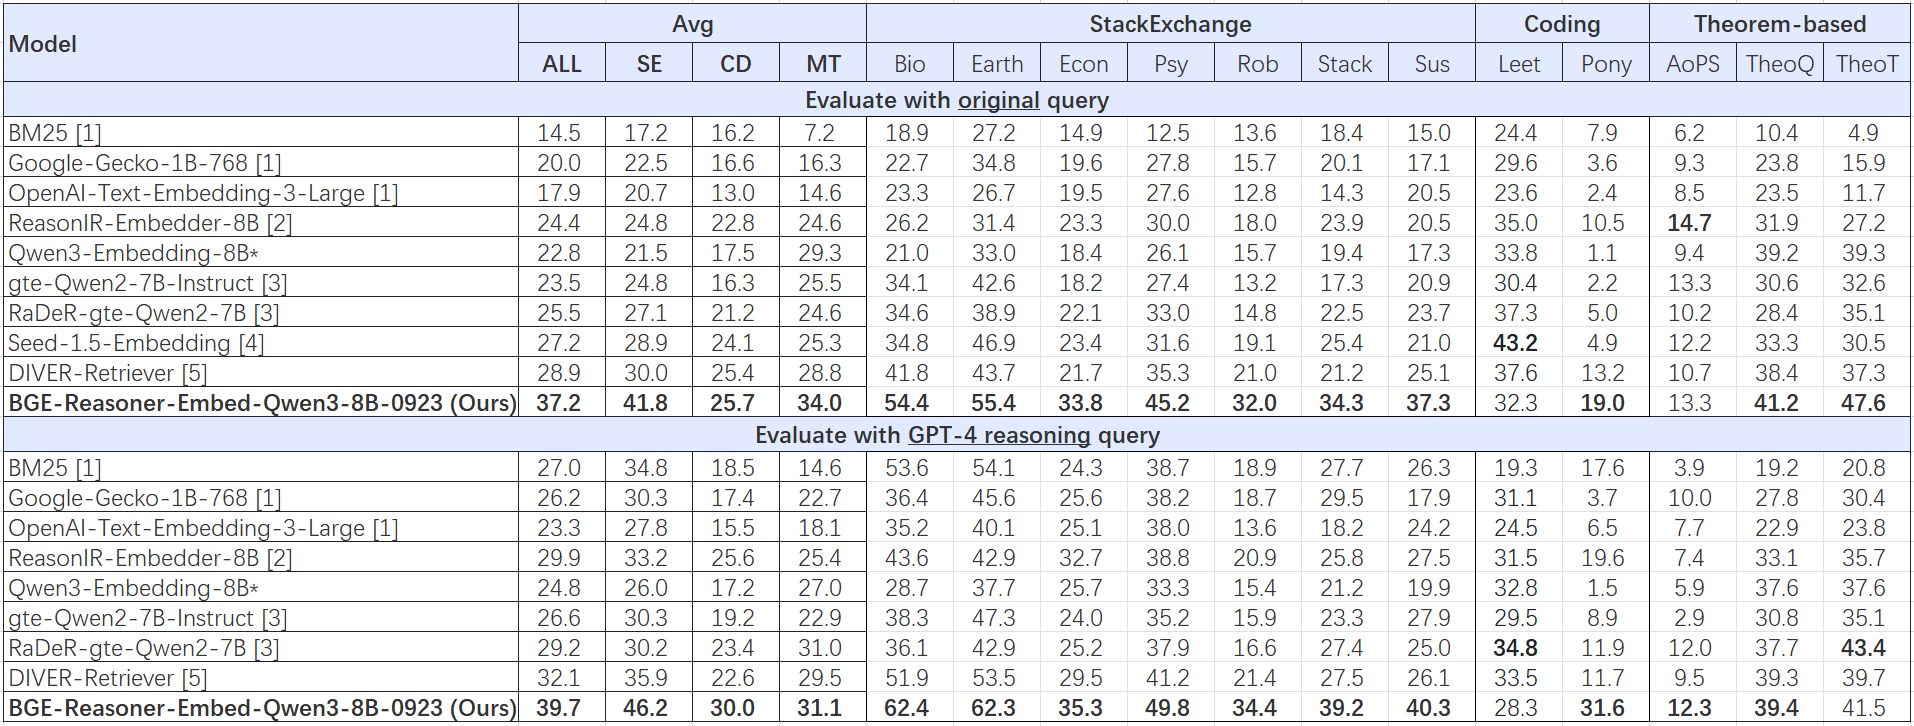
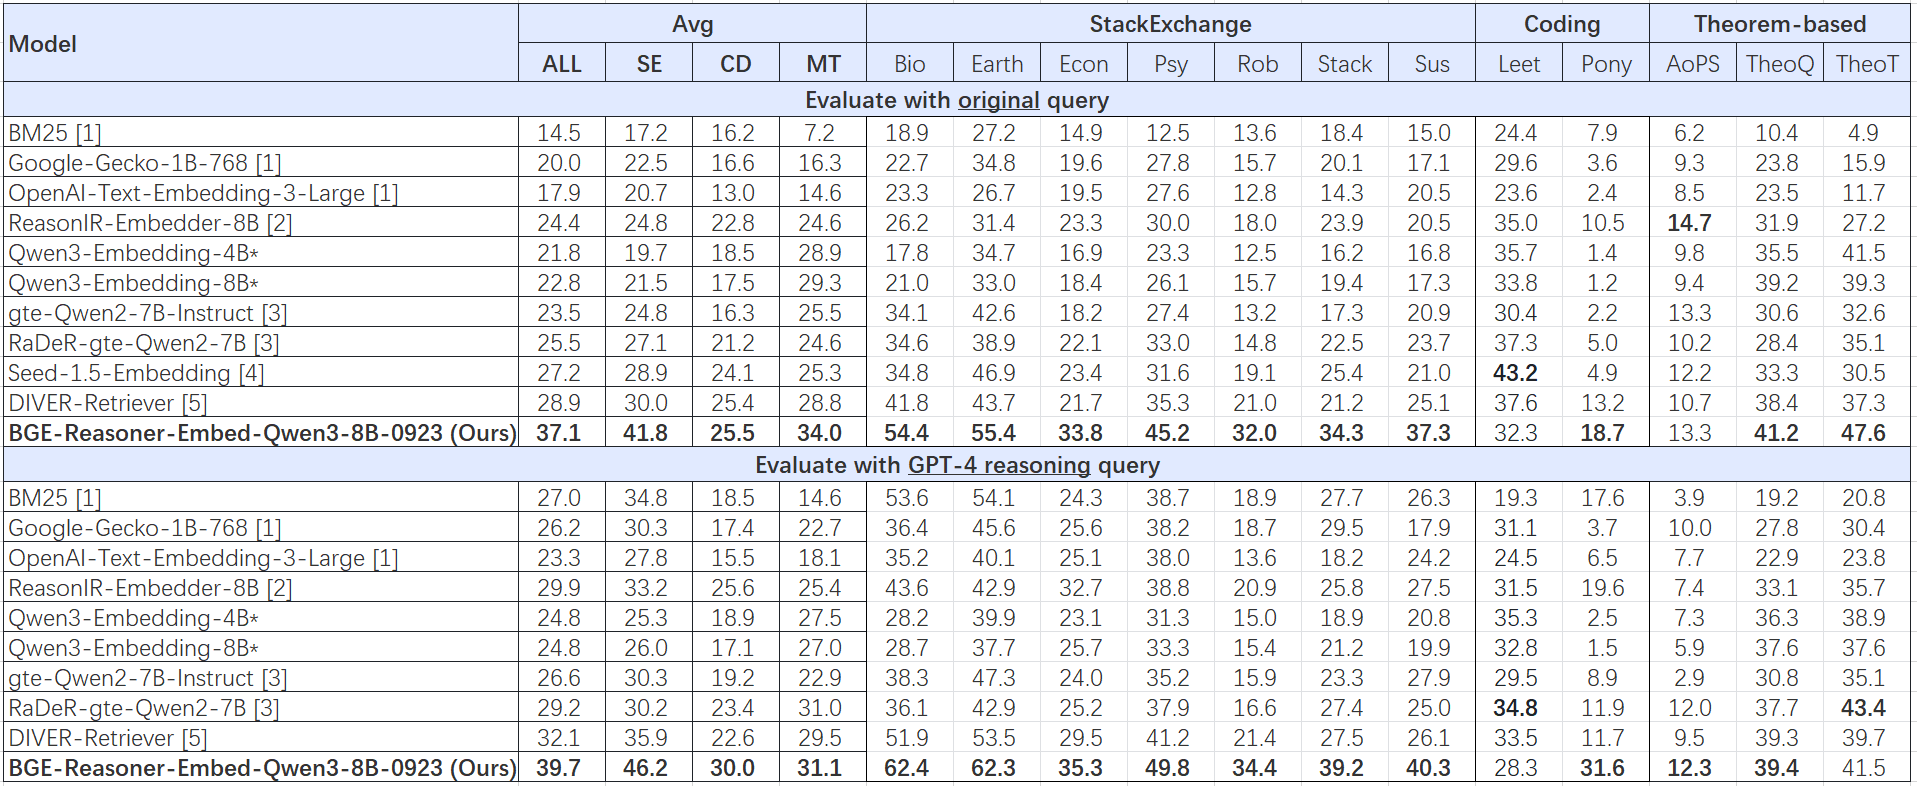
Update README of BGE-Reasoner - fix pony results of BGE-Reasoner-Embed-Qwen3-8B-0923 - add contact information

Changed region(s): [[0.0, 0.0, 1.0, 1.0], [0.2466, 0.0, 0.2774, 0.0303]]

diff --git a/research/BGE_Reasoner/README.md b/research/BGE_Reasoner/README.md
@@ -17,8 +17,8 @@ We introduce **BGE-Reasoner**, an end-to-end reasoning-intensive information ret
 | ------------------ | --------------------- | ----------- | ------------------ | ------------------ |
 | Model              | BGE-Reasoner-Rewriter | [🤗]() (TBA)     | -    |      |
 | Model              | BGE-Reasoner-Reranker | [🤗]() (TBA)     | -    |      |
-| Model              | BGE-Reasoner-Embed-Qwen3-8B-0923 | [🤗](https://huggingface.co/BAAI/bge-reasoner-embed-qwen3-8b-0923) | Sep 23, 2025 | nDCG@10 = 37.2 using original query, fine-tuned on [Qwen/Qwen3-8B](https://huggingface.co/Qwen/Qwen3-8B) with our latest refined training data (data to be released) |
-| Search Results | BGE-Reasoner-Embed-Qwen3-8B-0923 Search Results | [🤗](https://huggingface.co/BAAI/bge-reasoner-embed-qwen3-8b-0923/tree/main/search_results) | Sep 23, 2025 | nDCG@10 = 37.2 using original query |
+| Model              | BGE-Reasoner-Embed-Qwen3-8B-0923 | [🤗](https://huggingface.co/BAAI/bge-reasoner-embed-qwen3-8b-0923) | Sep 23, 2025 | nDCG@10 = 37.1 using original query, fine-tuned on [Qwen/Qwen3-8B](https://huggingface.co/Qwen/Qwen3-8B) with our latest refined training data (data to be released) |
+| Search Results | BGE-Reasoner-Embed-Qwen3-8B-0923 Search Results | [🤗](https://huggingface.co/BAAI/bge-reasoner-embed-qwen3-8b-0923/tree/main/search_results) | Sep 23, 2025 | nDCG@10 = 37.1 using original query |
 | Search Results | BGE-Reasoner-Embed-0821 Search Results | [🤗](https://huggingface.co/datasets/hanhainebula/bright-search-results_bge-reasoner-embed-0821/tree/main) | Sep 4, 2025 | nDCG@10 = 32.5 using original query, submission to BRIGHT leaderboard on Aug 21, 2025 |
 | Training Data      | BGE-Reasoner-Data | [🤗](https://huggingface.co/datasets/hanhainebula/bge-reasoner-data/tree/main/bge-reasoner-data-0904) | Sep 4, 2025 | part of our training data; full data to be released in the future |
 | Evaluation Scripts | -                     | (TBA)             | -            |              |
@@ -72,7 +72,7 @@ Note:
 
 **BGE-Reasoner-Embed-Qwen3-8B-0923**, fine-tuned on [Qwen/Qwen3-8B](https://huggingface.co/Qwen/Qwen3-8B) with our latest refined training data (data to be released), achieves strong performance on the BRIGHT benchmark:
 
-- With original queries, it attains **nDCG@10 = 37.2**, an absolute improvement of **+8.3** over the previous best ([DIVER](https://arxiv.org/pdf/2508.07995): 28.9).
+- With original queries, it attains **nDCG@10 = 37.1**, an absolute improvement of **+8.2** over the previous best ([DIVER](https://arxiv.org/pdf/2508.07995): 28.9).
 - Using the GPT-4 reasoning queries provided by BRIGHT, the score increases to **39.7**, which is **+7.6** higher than DIVER’s corresponding result (32.1).
 
 > On Sep 23, 2025, we released the first-stage search results of BGE-Reasoner-Embed-Qwen3-8B-0923 using original queries and GPT-4 reasoning queries (Top-2000 candidates; excluded IDs removed) [here](https://huggingface.co/BAAI/bge-reasoner-embed-qwen3-8b-0923/tree/main/search_results). The model checkpoint is available [here](https://huggingface.co/BAAI/bge-reasoner-embed-qwen3-8b-0923).
@@ -137,6 +137,11 @@ Note:
 
 
 The technical details for each component of **BGE-Reasoner** will be released soon. Please stay tuned!
+
+
+## Contact Information
+
+Some resources are not yet publicly available. If you have urgent research needs for any of these resources (e.g., model checkpoints, search results, evaluation scripts) or have any questions, please contact Jianlyu Chen at jianlvchen@gmail.com.
 
 
 ## Citation
